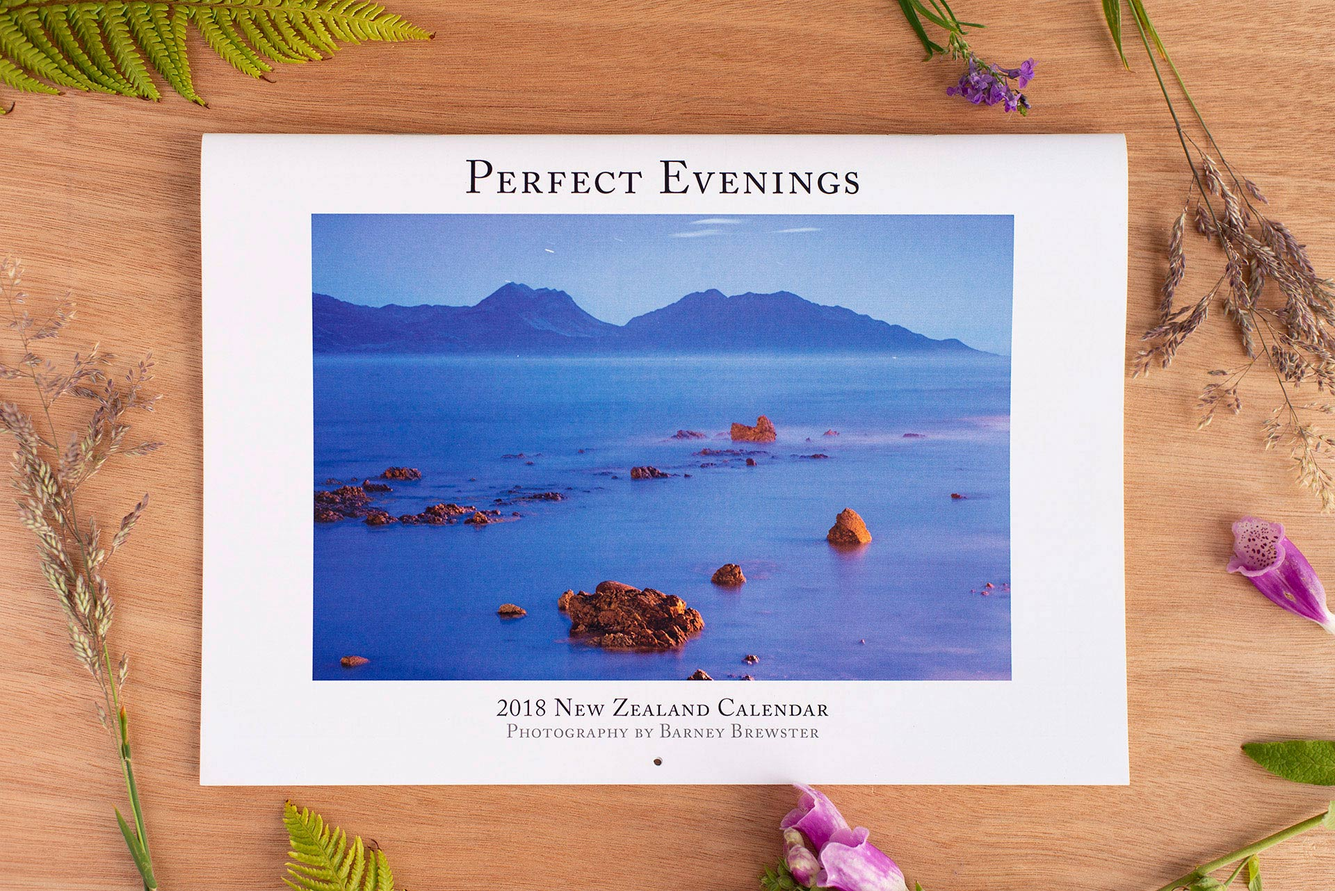
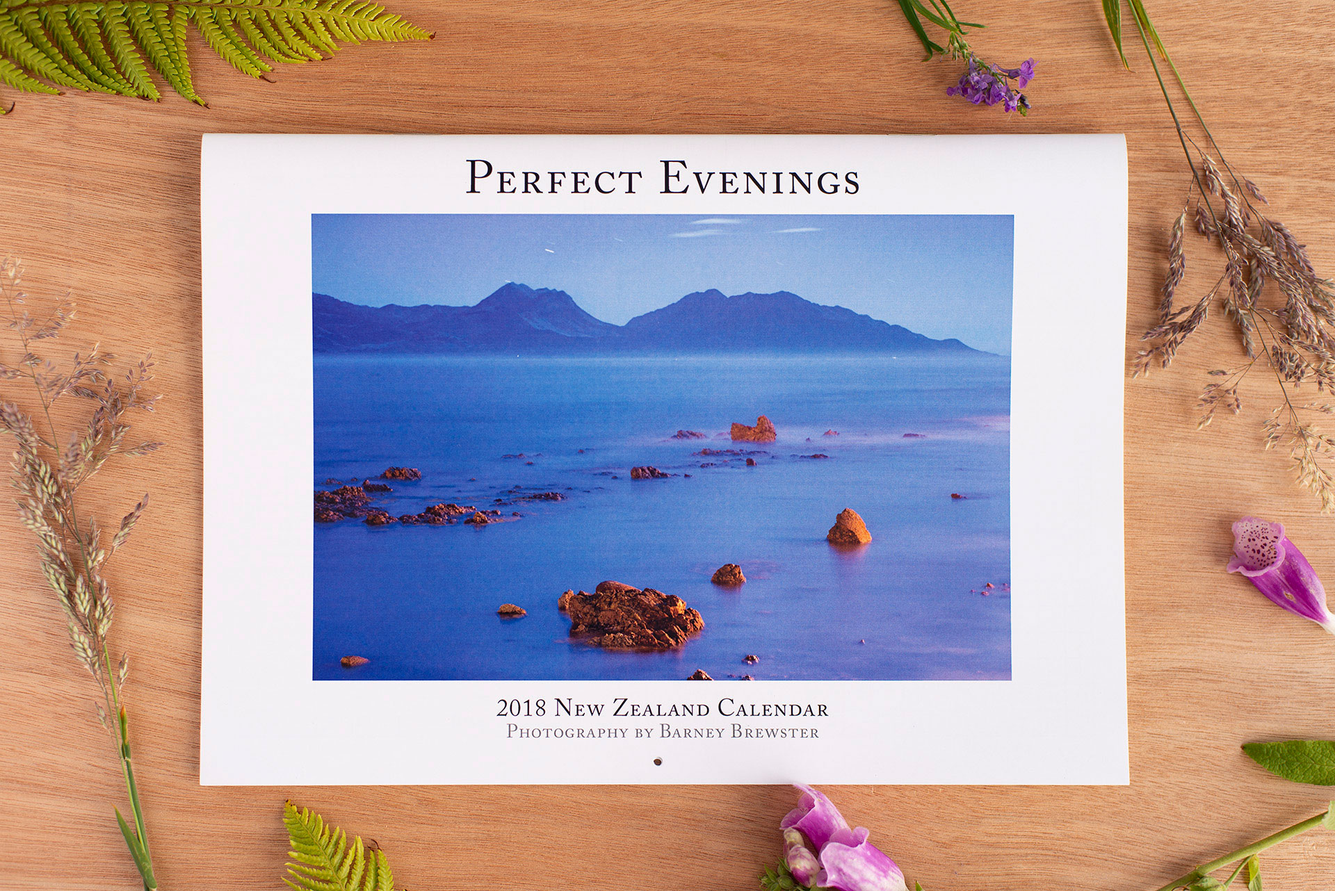
re-uploaded higher res images

Changed region(s): [[0.5, 0.6864, 0.5312, 0.7176]]

diff --git a/artful.html b/artful.html
@@ -44,8 +44,8 @@
     <div class="text-container center">
       <div class=" col-sm-12 col-md-12 col-lg-12 ">
         <h3 class="mb-3 mt-3"><b>Artful</b></h3>
-        <p class="text-center"> For our group Yoobee assignment we were tasked to develop a fullstack app using Agile methodology, Node.js, npm, Grunt and MongoDB. The requirements for this app were for users to buy and sell their products. The
-          seller can post a product with its associated details. Buyers are able to view, leave comments and ask questions about the product/s.<br><br> Hayley, Rahul and I worked together as a team to create the Artful app.<br> <b>We had one month to
+        <p> For our group Yoobee assignment we were tasked to develop a fullstack app using Agile methodology, Node.js, npm, Grunt and MongoDB. The requirements for this app were for users to buy and sell their products. The
+          seller can post a product with its associated details. Buyers are able to view, leave comments and ask questions about the product/s.<br><br> Hayley, Rahul and I worked together as a team to create the Artful app.<br><br> <b>We had one month to
             complete the proposal, UX, design and coding process during Level 4 lockdown. </b></p>
       </div>
     </div>

diff --git a/restaurantproject.html b/restaurantproject.html
@@ -44,8 +44,8 @@
     <div class="text-container center">
       <div class=" col-sm-12 col-md-12 col-lg-12">
         <h3 class="mb-3 mt-3"><b>Restaurant Case Study</b></h3>
-        <p class="text-center"> For this assignment we had to work in groups. Our task was to redesign a website for responsive viewing on desktop, tablet and mobile. We chose to redesign the website for this brief through the process of elimination
-          in our research, as the restaurants current website was not responsive, aesthetically appealing nor user friendly. Below is an overview of the UX process. <br><br> <b>We had one week to complete the UX process together <br>and one week to
+        <p> For this assignment we had to work in groups. Our task was to redesign a website for responsive viewing on desktop, tablet and mobile. We chose to redesign the website for this brief through the process of elimination
+          in our research, as the restaurants current website was not responsive, aesthetically appealing nor user friendly.<br><br> <b>We had one week to complete the UX process together and one week to
             code the website individually.</b></p>
       </div>
     </div>

diff --git a/kiwigetaway.html b/kiwigetaway.html
@@ -46,8 +46,7 @@
         <h3 class="mb-3 mt-3"><b>Kiwi Getaway Case Study</b></h3>
         <h5>Accommodation App</h5><br>
         <p> The Yoobee assignment was to create a single-page web app for booking accommodation through Tourism New Zealand. The app should allow users to input their information, display it as entered and show whether validation has failed or
-          passed.<br><br> Tourism New Zealand does not yet have an app that supports their current campaign. Without the app, the campaign goal of attracting short-term travellers cannot succeed, as visitors cannot easily find this
-          information.<br><br> <b>We had 3 weeks to complete the proposal, UX, design and coding process. Here is a brief overview of the creative process. You can also view and download an extensive run-through of this case study too.</b></p>
+          passed.<br><br><b>We had 3 weeks to complete the proposal, UX, design and coding process. Here is a brief overview of the creative process. You can also view and download an extensive run-through of this case study too.</b></p>
       </div>
     </div>
   </div>

diff --git a/charityproject.html b/charityproject.html
@@ -44,7 +44,7 @@
     <div class="text-container center">
       <div class=" col-sm-12 col-md-12 col-lg-12 ">
         <h3 class="mb-3 mt-3"><b>Charity Case Study</b></h3>
-        <p class="text-center"> The Yoobee assignment was to redesign a responsive website.<br> An ECO member organisation would like you to undertake a review of their <br> existing site’s user experience and formulate a plan for a site redesign.
+        <p> The Yoobee assignment was to redesign a responsive website that was viewable on mobile, tablet and desktop. The brief was the following: "An ECO member organisation would like you to undertake a review of their existing site’s user experience and formulate a plan for a site redesign."
           <br><br> <b>We had 3 weeks to complete the proposal, UX, design and coding process. </b></p>
       </div>
     </div>

diff --git a/pugrefuge.html b/pugrefuge.html
@@ -90,7 +90,7 @@
       </div>
     </div>
     <div class="row mb-2">
-      <div class=" col-sm-12 col-md-12 col-lg-12"> <img src="css/images/iMac_PugRefuge_YanaBrewster.png" class="img-fluid w-50 mx-auto d-block" alt="Pug Refuge website on desktop"></div>
+      <div class=" col-sm-12 col-md-12 col-lg-12"> <img src="css/images/iMac_PugRefuge_YanaBrewster.jpg" class="img-fluid w-50 mx-auto d-block" alt="Pug Refuge website on desktop"></div>
     </div>
     <div class="row mb-2">
       <div class="col-sm-12 col-md-12 col-lg-12 d-flex justify-content-center"> <a href="https://pugrefuge.com/" class="btn btn-primary rounded-pill button-font btn-lg text-white w-40 mb-5 mt-5" role="button">View Website</a></div>

diff --git a/css/style.css b/css/style.css
@@ -7700,7 +7700,7 @@ p {
   width: 95%; }
   @media (min-width: 900px) {
     .text-container {
-      width: 50%; } }
+      width: 55%; } }
   @media (min-width: 1920px) {
     .text-container {
       width: 45%; } }

diff --git a/scss/_layout.scss b/scss/_layout.scss
@@ -21,7 +21,7 @@
 .text-container{
   width: 95%;
   @media (min-width: 900px) {
-    width: 50%;
+    width: 55%;
   }
   @media (min-width: 1920px) {
     width: 45%;
